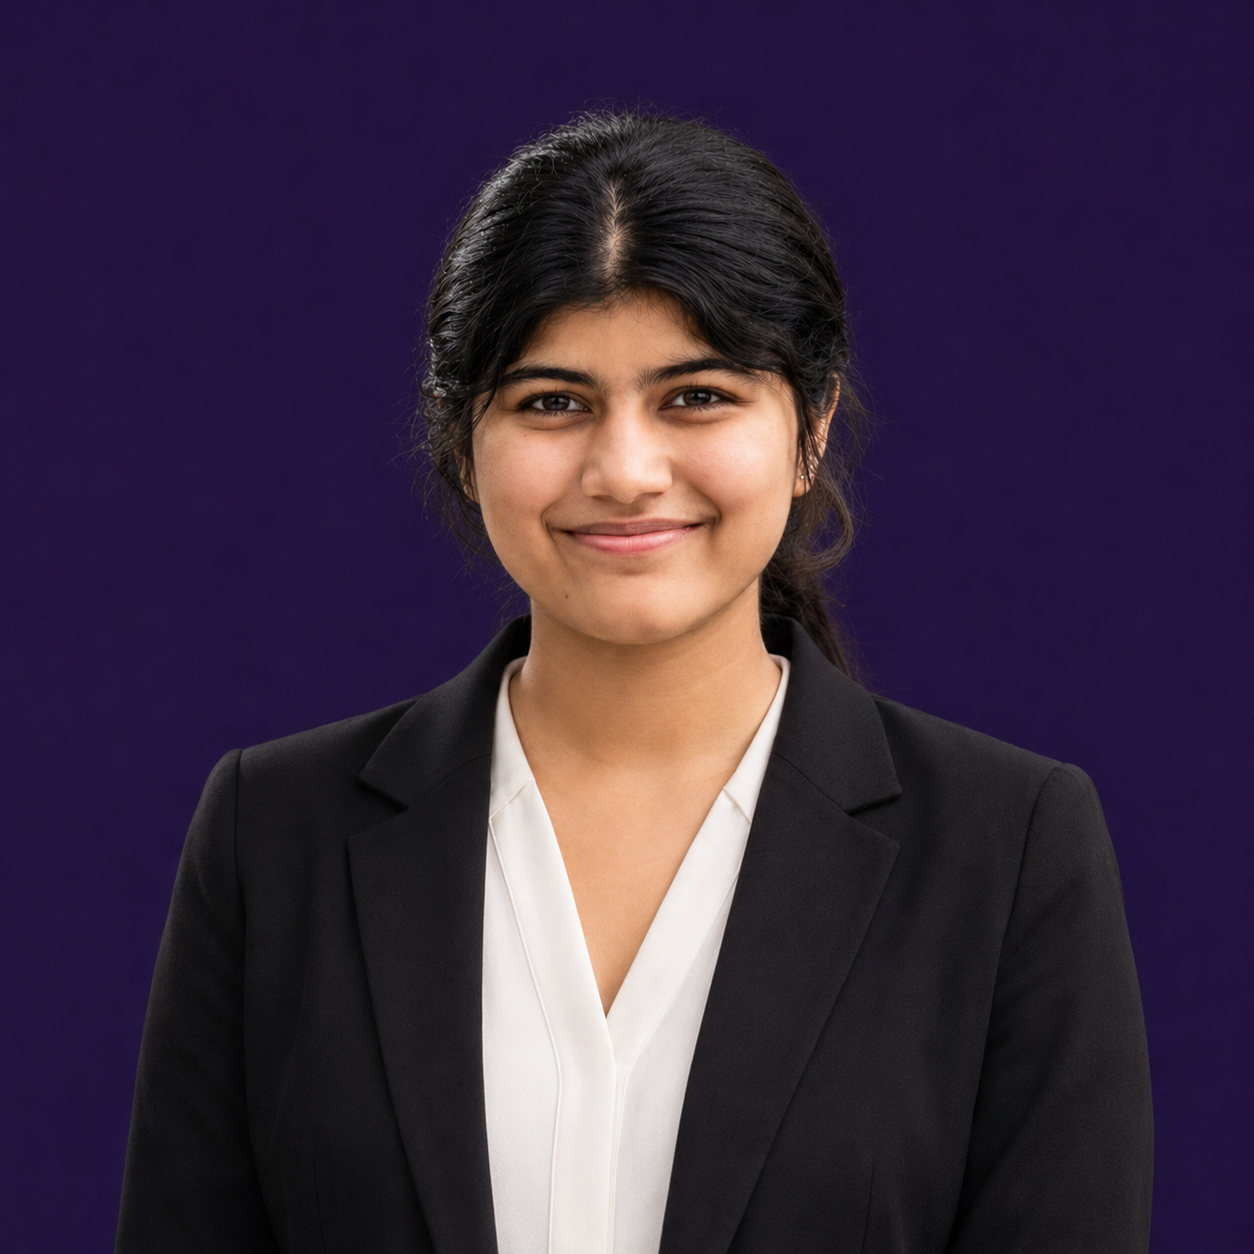
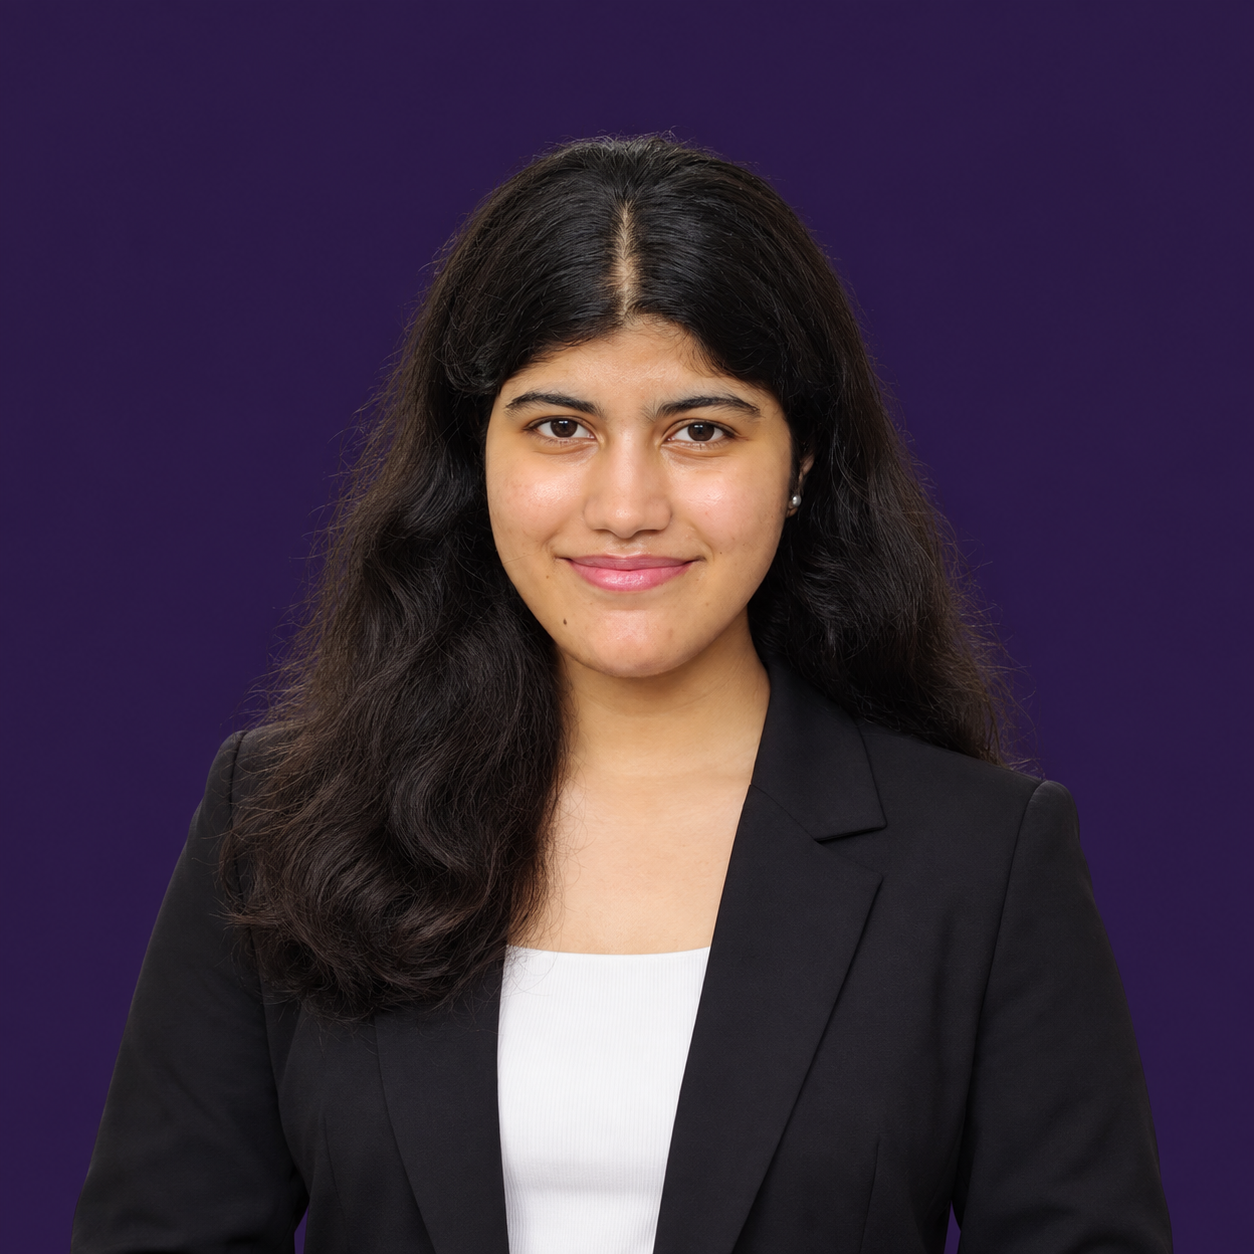
Update team members and faculty coordinator

diff --git a/awsclub/src/components/team/CategoryBlockCard.jsx b/awsclub/src/components/team/CategoryBlockCard.jsx
@@ -153,33 +153,30 @@ export default function CategoryBlockCard({ group, onSelect, isExecutive }) {
                 </div>
               </div>
 
-              <div className="mt-2 text-center flex flex-col items-center w-full">
+              <div className="mt-2 text-center flex flex-col items-center w-full gap-2">
                 <span className={`text-zinc-300 group-hover/avatar:text-white font-sans font-medium sm:font-semibold leading-tight tracking-wide truncate w-full transition-colors duration-300 ${count === 5 ? "text-[10px] sm:text-[11px]" : "text-[11px] sm:text-[13px]"}`}>
                   {firstName}
                 </span>
+                {isLeadership && (
+                  <div className="inline-flex items-center justify-center px-3 py-2 rounded-full border border-white/15 bg-white/5 backdrop-blur-md shadow-sm transition-all duration-300 group-hover/avatar:border-[#A26DFF]/60 group-hover/avatar:shadow-[0_0_14px_rgba(162,109,255,0.3)]">
+                    <span className="text-white/95 group-hover/avatar:text-white font-extrabold text-[9px] sm:text-[10px] uppercase tracking-[0.18em] leading-none whitespace-nowrap transition-colors duration-300">
+                      {m.shortRole || m.role}
+                    </span>
+                  </div>
+                )}
               </div>
             </motion.div>
           );
         })}
       </div>
 
-      {isExecutive && (
-        <div className="w-full flex justify-center gap-3 sm:gap-4 mt-4 sm:mt-5 mb-2 relative z-10 flex-wrap">
-          {isLeadership ? (
-            members.map((m) => (
-              <div key={m.id || m.role} className="inline-flex items-center justify-center px-5 sm:px-6 py-2.5 rounded-full border border-white/15 bg-white/5 backdrop-blur-md shadow-sm group-hover:border-[#A26DFF]/60 group-hover:shadow-[0_0_20px_rgba(162,109,255,0.25)] group-hover:-translate-y-0.5 transition-all duration-300">
-                <span className="text-white/95 group-hover:text-white font-extrabold text-[10px] sm:text-[11px] uppercase tracking-[0.2em] leading-none transition-colors duration-300">
-                  {m.role}
-                </span>
-              </div>
-            ))
-          ) : (
-            <div className="inline-flex items-center justify-center px-5 sm:px-6 py-2.5 rounded-full border border-white/15 bg-white/5 backdrop-blur-md shadow-sm group-hover:border-[#A26DFF]/60 group-hover:shadow-[0_0_20px_rgba(162,109,255,0.25)] group-hover:-translate-y-0.5 transition-all duration-300">
-              <span className="text-white/95 group-hover:text-white font-extrabold text-[10px] sm:text-[11px] uppercase tracking-[0.2em] leading-none transition-colors duration-300">
-                {title}
-              </span>
-            </div>
-          )}
+      {isExecutive && !isLeadership && (
+        <div className="w-full flex justify-center mt-4 sm:mt-5 mb-2 relative z-10">
+          <div className="inline-flex items-center justify-center px-5 sm:px-6 py-2.5 rounded-full border border-white/15 bg-white/5 backdrop-blur-md shadow-sm group-hover:border-[#A26DFF]/60 group-hover:shadow-[0_0_20px_rgba(162,109,255,0.25)] group-hover:-translate-y-0.5 transition-all duration-300">
+            <span className="text-white/95 group-hover:text-white font-extrabold text-[10px] sm:text-[11px] uppercase tracking-[0.2em] leading-none transition-colors duration-300">
+              {title}
+            </span>
+          </div>
         </div>
       )}
 

diff --git a/awsclub/src/data/members.js b/awsclub/src/data/members.js
@@ -131,6 +131,18 @@ export const foundingLeadership = [
 export const executiveTeam = [
   // â”€â”€â”€ Leadership â”€â”€â”€â”€â”€â”€â”€â”€â”€â”€â”€â”€â”€â”€â”€â”€â”€â”€â”€â”€â”€â”€â”€â”€â”€â”€â”€â”€â”€â”€â”€â”€â”€â”€â”€â”€â”€â”€â”€â”€â”€â”€â”€â”€â”€â”€â”€â”€â”€â”€â”€â”€â”€â”€â”€â”€â”€â”€â”€
   {
+    id: 50,
+    name: "Kishika Singh",
+    role: "AWS Student Builder Group Leader",
+    shortRole: "AWS SBGL",
+    department: "Leadership",
+    rank: 0,
+    photoUrl: kishika,
+    linkedin: "https://www.linkedin.com/in/kishikasingh/",
+    github: "https://github.com/KishikaSingh",
+    history: "2026-27",
+  },
+  {
     id: 11,
     name: "Ayush Rao Chaudhary",
     role: "President",
